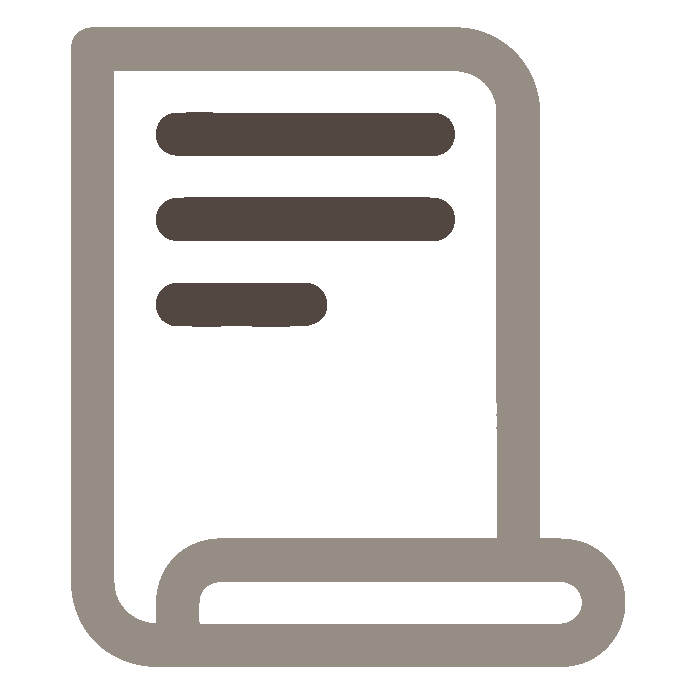
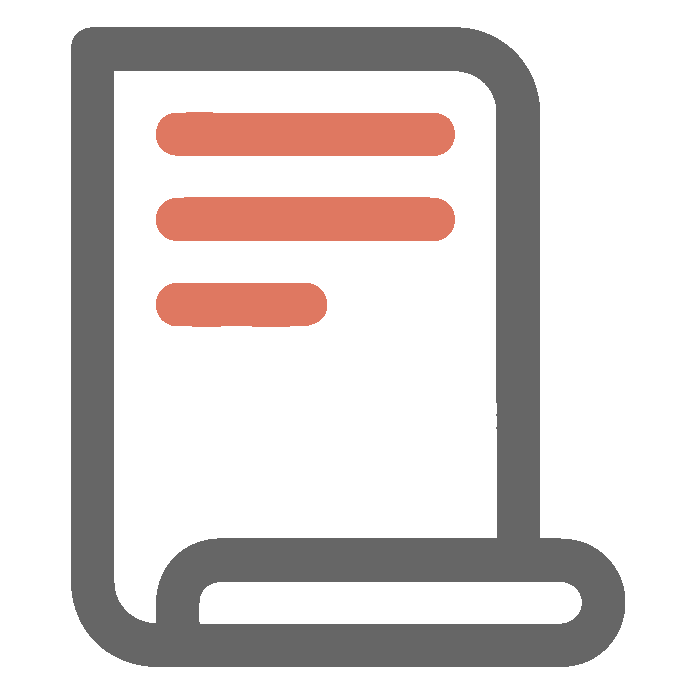
changed color and adjusted home

diff --git a/app/assets/stylesheets/components/_button.scss b/app/assets/stylesheets/components/_button.scss
@@ -1,5 +1,5 @@
 .btn-home {
-  background-color: #69272D;
+  background-color: $home-orange;
   border: 0;
   border-radius: .3rem;
   box-sizing: border-box;
@@ -19,7 +19,7 @@
   margin-top: 2pt;
 
     &:hover {
-    background-color: #90343c;
+    background-color: $home-light;
     text-decoration: none;
     color: white;
     box-shadow: rgba(0, 0, 0, 0.18) 0px 2px 4px;

diff --git a/app/assets/stylesheets/pages/_home.scss b/app/assets/stylesheets/pages/_home.scss
@@ -11,7 +11,7 @@ $xlarge: 1920px;
 .bg-img {
   background-image: url("stor-eye_bg.jpg");
   background-repeat: no-repeat;
-  max-height: fit-content;
+  background-size: cover;
   width: auto;
 }
 

diff --git a/app/assets/stylesheets/config/_colors.scss b/app/assets/stylesheets/config/_colors.scss
@@ -11,3 +11,7 @@ $light-gray: #E9E9E9;
 $beige: #B79E74;
 $light-beige: #C8BBAA;
 $black: #1D1514;
+$home-orange: #DF7861;
+$home-light: #ECB390;
+$home-blue: #D4E2D4;
+$home-beige: #FCF8E8;
